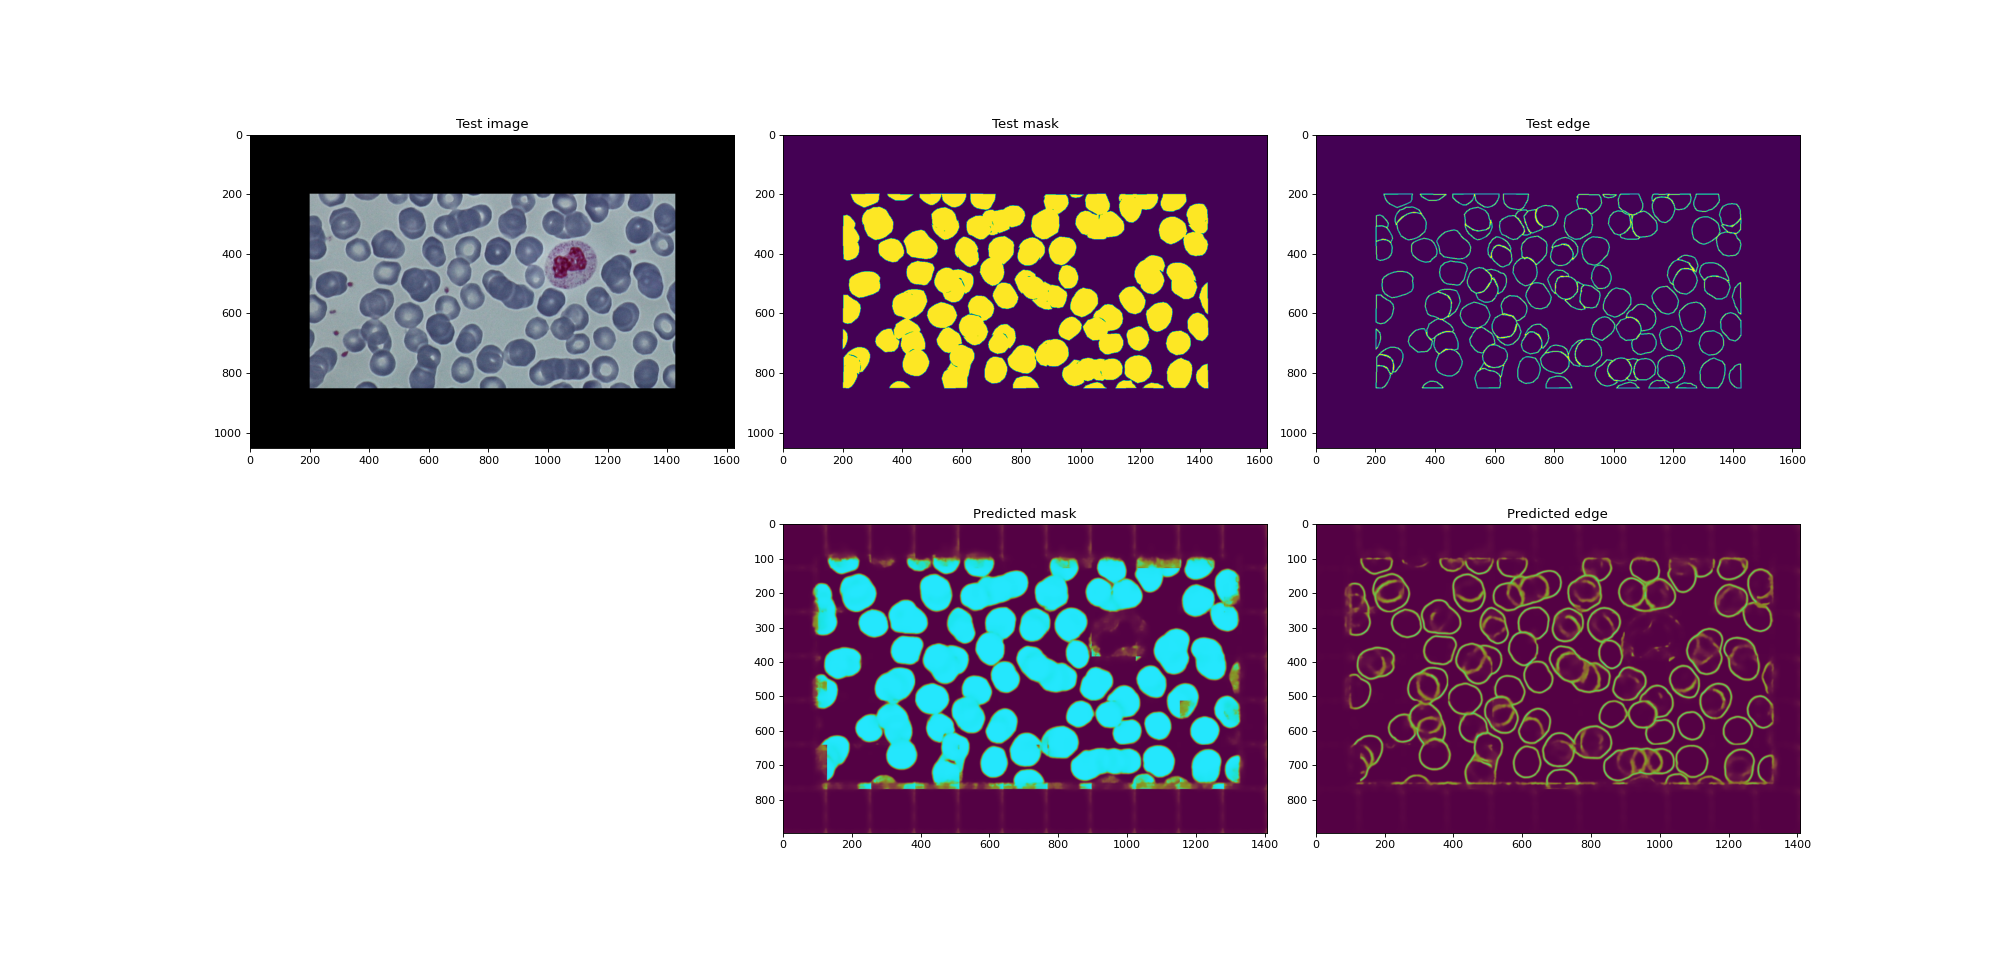
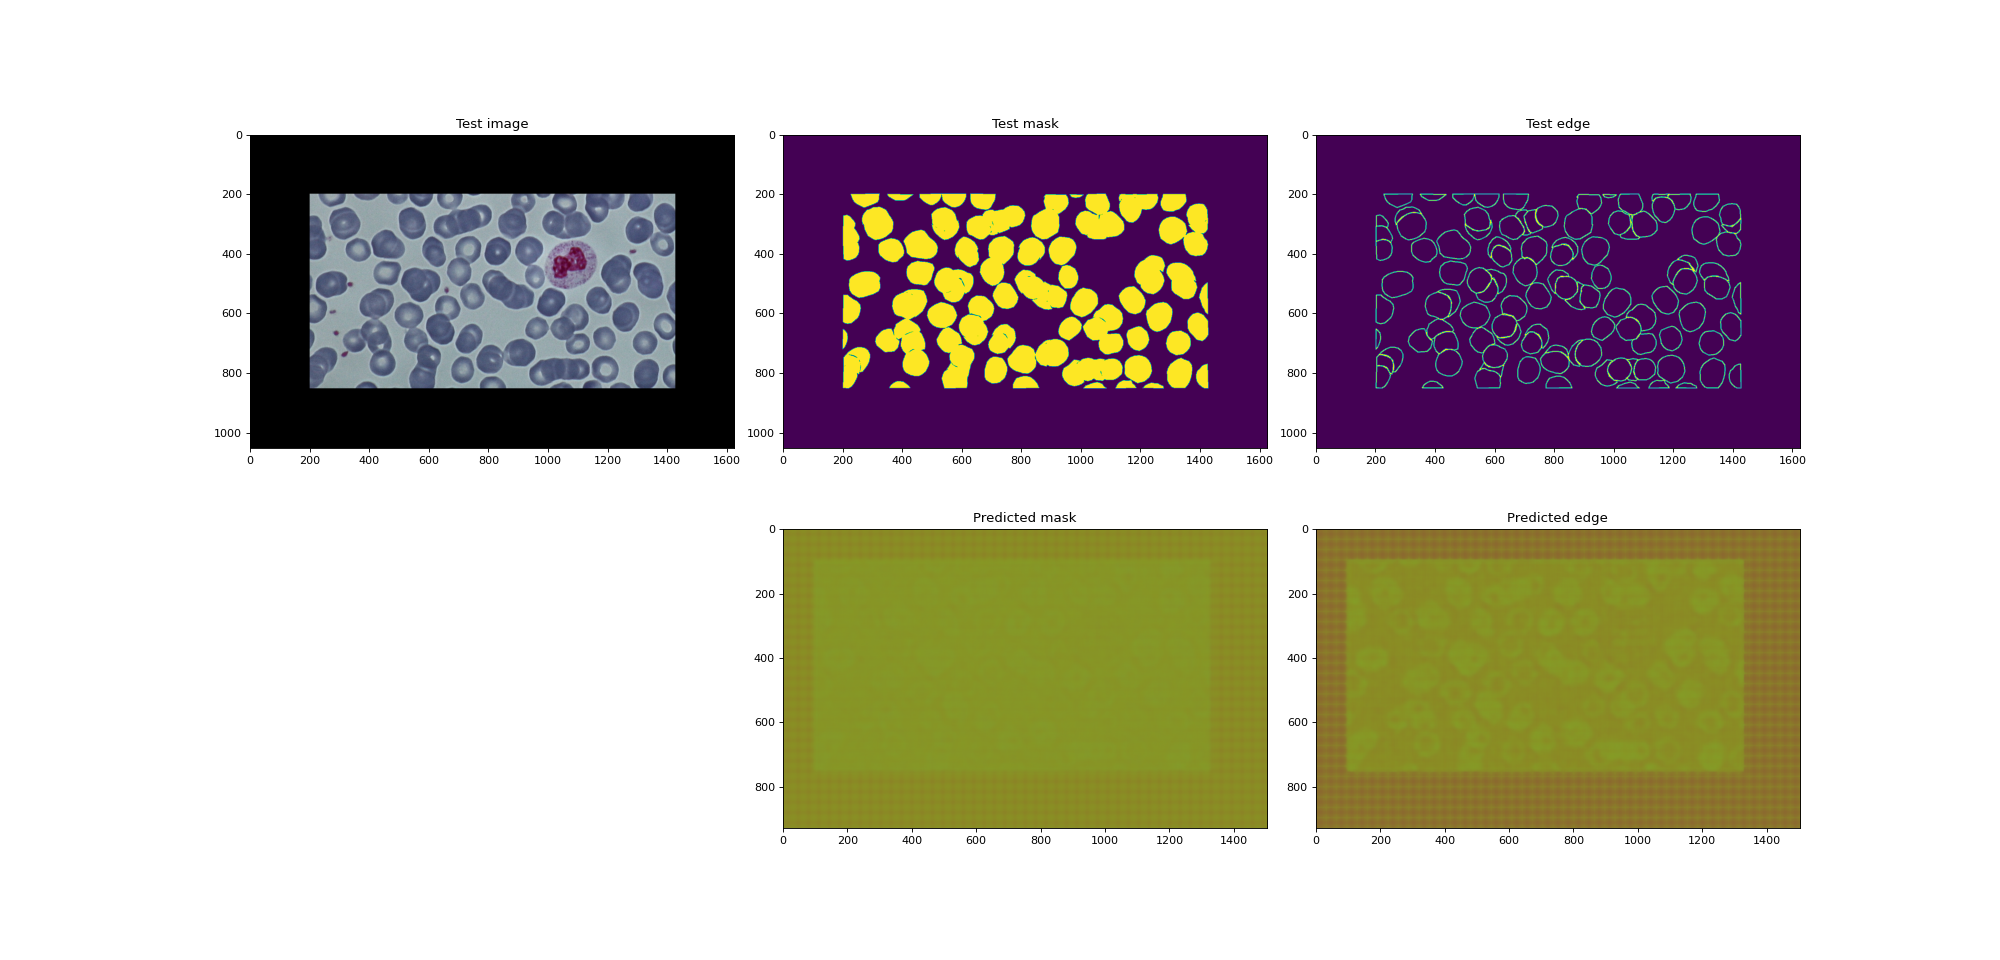
Preparing for 32x32 input shape image entries!

Changed region(s): [[0.372, 0.5312, 0.899, 0.875]]

diff --git a/src/run.py b/src/run.py
@@ -10,31 +10,40 @@ import data
 from model import segnet, get_callbacks
 
 
+# global variables
+input_shape     = (32, 32, 3)
+output_shape    = (32, 32, 1)
+padding         = [200, 100]
+
+
 def generate_train_dataset(img_files):
     img, mask, edge = data.load_data(img_files)
 
     def train_gen():
         return data.train_generator(img, mask,
                                     edge=edge,
-                                    padding=200,
-                                    input_size=256,
-                                    output_size=256)
+                                    padding=padding[0],
+                                    input_size=input_shape[0],
+                                    output_size=output_shape[0])
 
     return tf.data.Dataset.from_generator(
         train_gen,
         (tf.float64, ((tf.float64), (tf.float64))),
-        ((256, 256, 3), ((256, 256, 1), (256, 256, 1)))
+        (input_shape, (output_shape, output_shape))
     )
 
 
 def generate_test_dataset(img_files):
     img, mask, edge = data.load_data(img_files)
 
-    img_chips, mask_chips, edge_chips = data.test_chips(img, mask,
-                                                        edge=edge,
-                                                        padding=100,
-                                                        input_size=256,
-                                                        output_size=256)
+    img_chips, mask_chips, edge_chips = data.test_chips(
+        img,
+        mask,
+        edge=edge,
+        padding=padding[1],
+        input_size=input_shape[0],
+        output_size=output_shape[0]
+    )
 
     return tf.data.Dataset.from_tensor_slices(
         (img_chips, (mask_chips, edge_chips))
@@ -73,9 +82,9 @@ def train(model_name='mse'):
 
 # extract number of image chips for an image
 def get_sizes(img,
-              padding=100,
-              input=256,
-              output=256):
+              padding=padding[1],
+              input=input_shape[0],
+              output=output_shape[0]):
     offset = padding + (output / 2)
     return [(len(np.arange(offset, img[0].shape[0] - input / 2, output)), len(np.arange(offset, img[0].shape[1] - input / 2, output)))]
 
@@ -84,7 +93,7 @@ def get_sizes(img,
 def reshape(img,
             size_x,
             size_y):
-    return img.reshape(size_x, size_y, 256, 256, 1)
+    return img.reshape(size_x, size_y, output_shape[0], output_shape[0], 1)
 
 
 # concatenate images
@@ -121,9 +130,9 @@ def predict(img='Im037_0.jpg',
         img,
         mask,
         edge=edge,
-        padding=100,
-        input_size=256,
-        output_size=256
+        padding=padding[1],
+        input_size=input_shape[0],
+        output_size=output_shape[0]
     )
 
     # segment all image chips
@@ -204,9 +213,9 @@ def evaluate(model_name='mse'):
         imgs,
         mask,
         edge=edge,
-        padding=100,
-        input_size=256,
-        output_size=256
+        padding=padding[1],
+        input_size=input_shape[0],
+        output_size=output_shape[0]
     )
 
     # print the evaluated accuracies
@@ -299,9 +308,9 @@ def component_labeling(img='edge.png'):
 
 # main program
 if __name__ == '__main__':
-    train('mse_256')
+    train('mse_32')
     # evaluate(model_name='mse')
-    # predict(model_name='mse', img='Im037_0.jpg')
+    # predict(model_name='mse_32', img='Im037_0.jpg')
     # threshold(img='mask.png')
     # threshold(img='edge.png')
     # threshold(img='edge-mask.png')

diff --git a/src/model.py b/src/model.py
@@ -27,7 +27,7 @@ def get_callbacks(name):
 
 # building the segnet model
 def segnet():
-    inputs = tf.keras.layers.Input((256, 256, 3))
+    inputs = tf.keras.layers.Input((32, 32, 3))
 
     # encoder
     filters = 64
